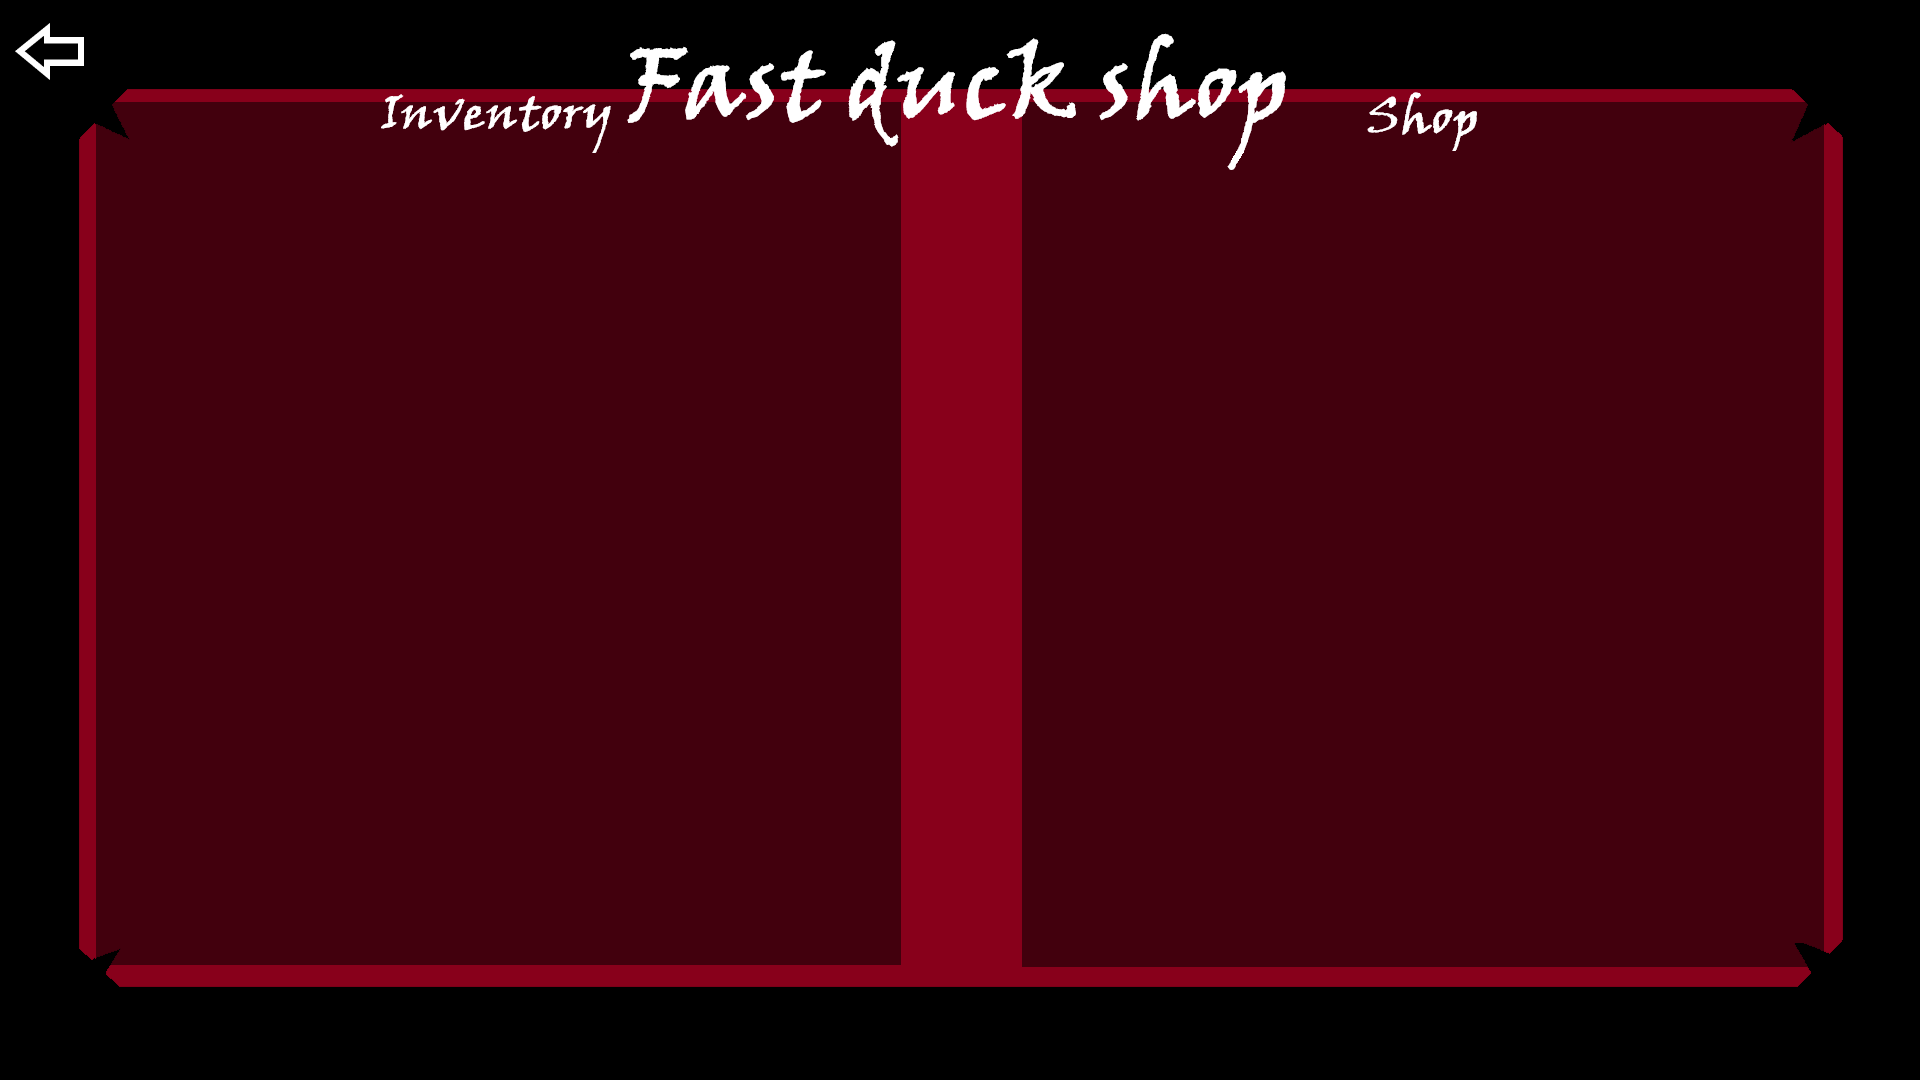
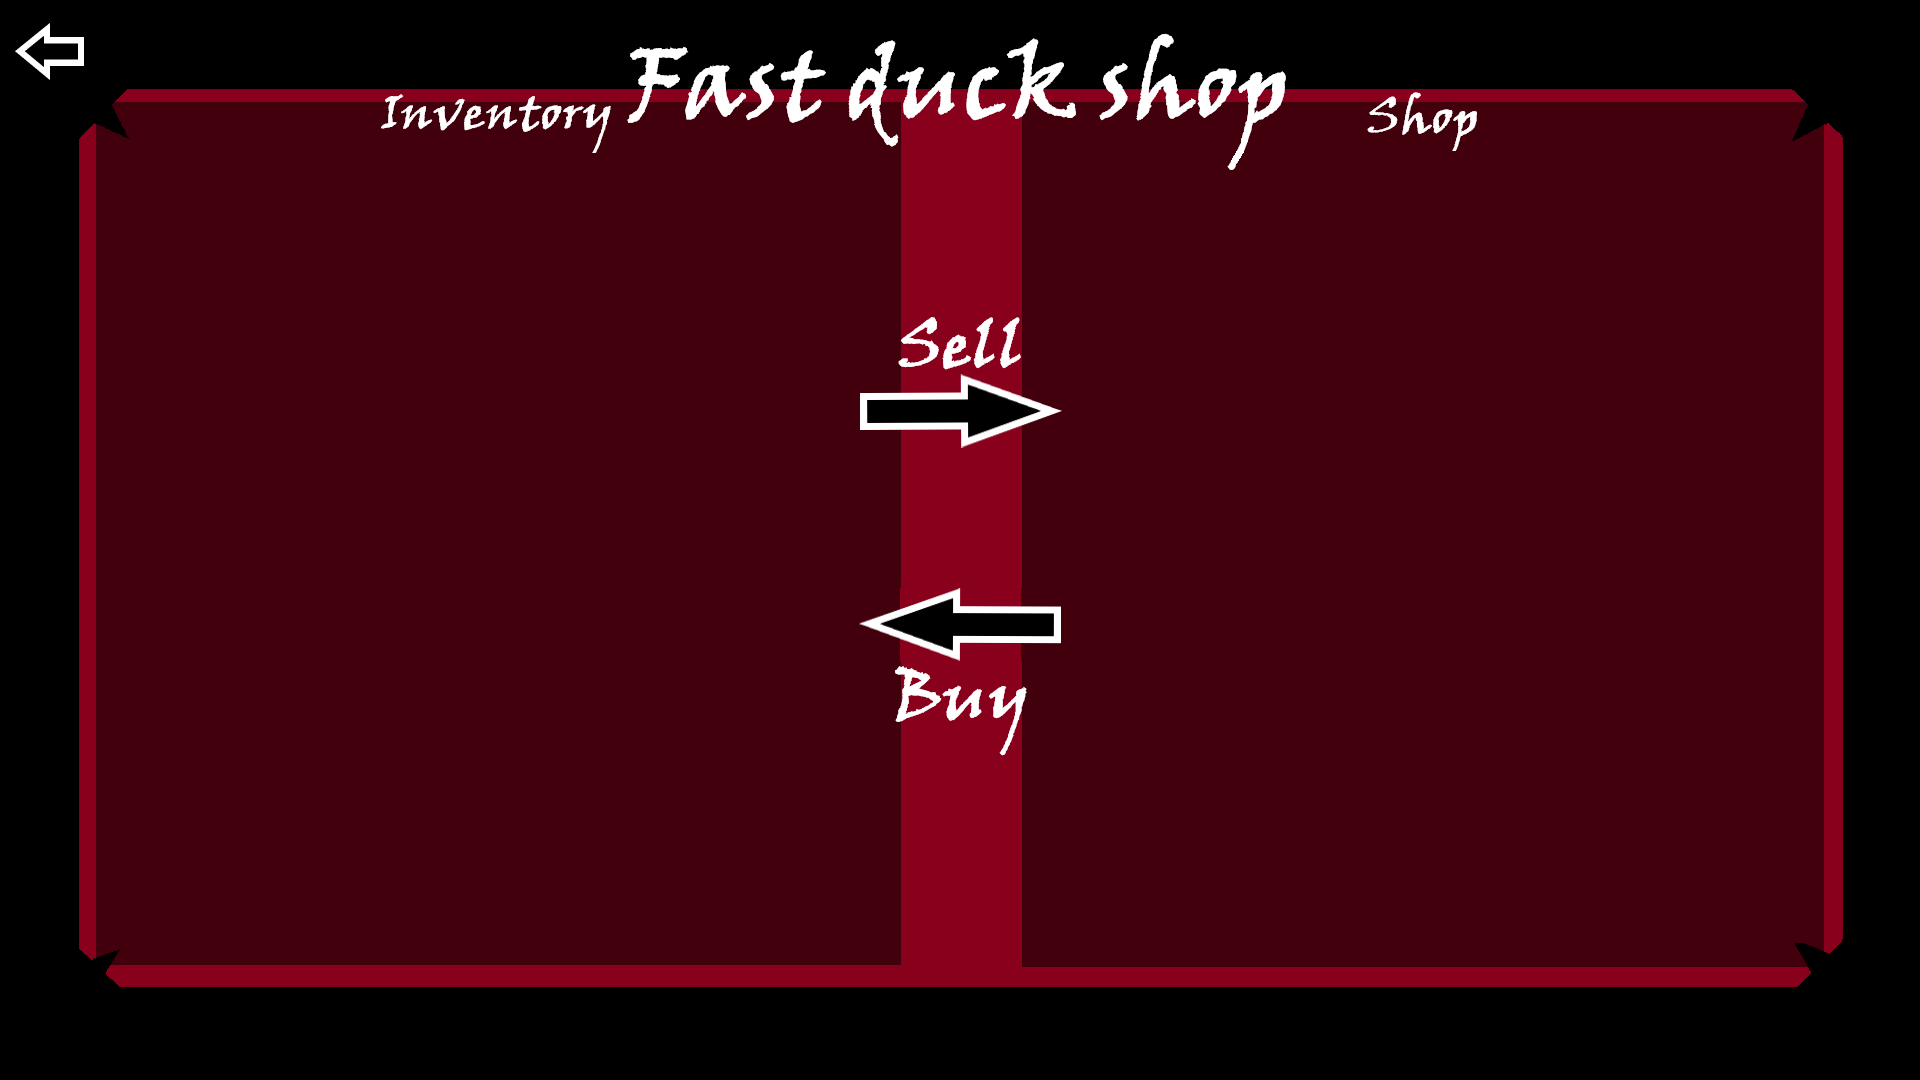
Pridane dalsie buttony

Changed region(s): [[0.4375, 0.55, 0.5625, 0.6722], [0.4375, 0.275, 0.5625, 0.4278]]

diff --git a/src/dalibor/crownsofbetrayal/states/gameStates/WorldMap.java b/src/dalibor/crownsofbetrayal/states/gameStates/WorldMap.java
@@ -1,14 +1,56 @@
 package dalibor.crownsofbetrayal.states.gameStates;
 
 import dalibor.crownsofbetrayal.graphics.ImageReader;
+import dalibor.crownsofbetrayal.graphics.ui.StateButton;
 import dalibor.crownsofbetrayal.states.CurrentState;
 import dalibor.crownsofbetrayal.states.State;
 import dalibor.crownsofbetrayal.states.States;
+import java.awt.Graphics2D;
 import java.awt.event.MouseEvent;
 
 public class WorldMap extends State {
+    private final StateButton[] stateButtons;
+
     public WorldMap(CurrentState currentState, int windowWidth, int windowHeight) {
         super(currentState, new ImageReader().getBufferedImage("res/bg/world_map.png"), windowWidth, windowHeight);
+        this.stateButtons = new StateButton[5];
+        this.setButtons();
+    }
+
+    private void setButtons() {
+        this.stateButtons[0] = new StateButton(
+            (int)(this.getWindowWidth() * 0.12),
+            (int)(this.getWindowHeight() * 0.69),
+            350,
+            50);
+        this.stateButtons[1] = new StateButton(
+            (int)(this.getWindowWidth() * 0.285),
+            (int)(this.getWindowHeight() * 0.395),
+            250,
+            50);
+        this.stateButtons[2] = new StateButton(
+            (int)(this.getWindowWidth() * 0.66),
+            (int)(this.getWindowHeight() * 0.595),
+            260,
+            50);
+        this.stateButtons[3] = new StateButton(
+            (int)(this.getWindowWidth() * 0.68),
+            (int)(this.getWindowHeight() * 0.23),
+            350,
+            50);
+        this.stateButtons[4] = new StateButton(
+            (int)(this.getWindowWidth() * 0.88),
+            (int)(this.getWindowHeight() * 0.14),
+            250,
+            50);
+    }
+
+    @Override
+    public void draw(Graphics2D g2D) {
+        super.draw(g2D);
+        for (StateButton stateButton : this.stateButtons) {
+            stateButton.draw(g2D);
+        }
     }
 
     @Override
@@ -31,10 +73,16 @@ public class WorldMap extends State {
         if (event.getX() < 100 && event.getY() < 100) {
             this.getCurrentState().setState(States.GAME_MENU);
         }
+
     }
 
     @Override
     public void mouseMoved(MouseEvent event) {
-
+        for (StateButton button : this.stateButtons) {
+            button.setMouseIn(false);
+            if (button.getButtonBounds().contains(event.getX(), event.getY())) {
+                button.setMouseIn(true);
+            }
+        }
     }
 }

diff --git a/src/dalibor/crownsofbetrayal/states/gameStates/Shop.java b/src/dalibor/crownsofbetrayal/states/gameStates/Shop.java
@@ -40,8 +40,8 @@ public class Shop extends State {
     @Override
     public void draw(Graphics2D g2D) {
         super.draw(g2D);
-        for (Button[] buttons : this.buttons) {
-            for (Button button : buttons) {
+        for (Button[] buttonsList : this.buttons) {
+            for (Button button : buttonsList) {
                 button.draw(g2D);
             }
         }
@@ -61,6 +61,7 @@ public class Shop extends State {
     public void moseReleased(MouseEvent event) {
 
     }
+    
 
     @Override
     public void mouseClicked(MouseEvent event) {
@@ -71,8 +72,8 @@ public class Shop extends State {
 
     @Override
     public void mouseMoved(MouseEvent event) {
-        for (Button[] buttons : this.buttons) {
-            for (Button button : buttons) {
+        for (Button[] buttonsList : this.buttons) {
+            for (Button button : buttonsList) {
                 button.setMouseIn(false);
                 if (button.getButtonBounds().contains(event.getX(), event.getY())) {
                     button.setMouseIn(true);

diff --git a/src/dalibor/crownsofbetrayal/states/gameStates/Pub.java b/src/dalibor/crownsofbetrayal/states/gameStates/Pub.java
@@ -62,8 +62,8 @@ public class Pub extends State {
         for (Button button : this.buttons) {
             button.draw(g2D);
         }
-        for (ItemButton[] buttons : this.itemButtons) {
-            for (ItemButton button : buttons) {
+        for (ItemButton[] buttonsList : this.itemButtons) {
+            for (ItemButton button : buttonsList) {
                 button.draw(g2D);
             }
         }
@@ -104,8 +104,8 @@ public class Pub extends State {
                 button.setMouseIn(true);
             }
         }
-        for (ItemButton[] buttons : this.itemButtons) {
-            for (ItemButton button : buttons) {
+        for (ItemButton[] buttonsList : this.itemButtons) {
+            for (ItemButton button : buttonsList) {
                 button.setMouseIn(false);
                 if (button.getButtonBounds().contains(event.getX(), event.getY())) {
                     button.setMouseIn(true);

diff --git a/src/dalibor/crownsofbetrayal/states/gameStates/Inventory.java b/src/dalibor/crownsofbetrayal/states/gameStates/Inventory.java
@@ -32,8 +32,8 @@ public class Inventory extends State {
     @Override
     public void draw(Graphics2D g2D) {
         super.draw(g2D);
-        for (Button[] buttons : this.buttons) {
-            for (Button button : buttons) {
+        for (Button[] buttonsList : this.buttons) {
+            for (Button button : buttonsList) {
                 button.draw(g2D);
             }
         }
@@ -63,8 +63,8 @@ public class Inventory extends State {
 
     @Override
     public void mouseMoved(MouseEvent event) {
-        for (Button[] buttons : this.buttons) {
-            for (Button button : buttons) {
+        for (Button[] buttonsList : this.buttons) {
+            for (Button button : buttonsList) {
                 button.setMouseIn(false);
                 if (button.getButtonBounds().contains(event.getX(), event.getY())) {
                     button.setMouseIn(true);

diff --git a/src/dalibor/crownsofbetrayal/states/gameStates/Crafting.java b/src/dalibor/crownsofbetrayal/states/gameStates/Crafting.java
@@ -32,8 +32,8 @@ public class Crafting extends State {
     @Override
     public void draw(Graphics2D g2D) {
         super.draw(g2D);
-        for (Button[] buttons : this.buttons) {
-            for (Button button : buttons) {
+        for (Button[] buttonsList : this.buttons) {
+            for (Button button : buttonsList) {
                 button.draw(g2D);
             }
         }
@@ -63,8 +63,8 @@ public class Crafting extends State {
 
     @Override
     public void mouseMoved(MouseEvent event) {
-        for (Button[] buttons : this.buttons) {
-            for (Button button : buttons) {
+        for (Button[] buttonsList : this.buttons) {
+            for (Button button : buttonsList) {
                 button.setMouseIn(false);
                 if (button.getButtonBounds().contains(event.getX(), event.getY())) {
                     button.setMouseIn(true);

diff --git a/src/dalibor/crownsofbetrayal/graphics/ui/QuestButton.java b/src/dalibor/crownsofbetrayal/graphics/ui/QuestButton.java
@@ -4,4 +4,12 @@ public class QuestButton extends Button {
     public QuestButton(int posX, int posY, int width, int height) {
         super(posX, posY, width, height);
     }
+
+    public void takeQuest() {
+
+    }
+
+    public void removeQuest() {
+
+    }
 }
